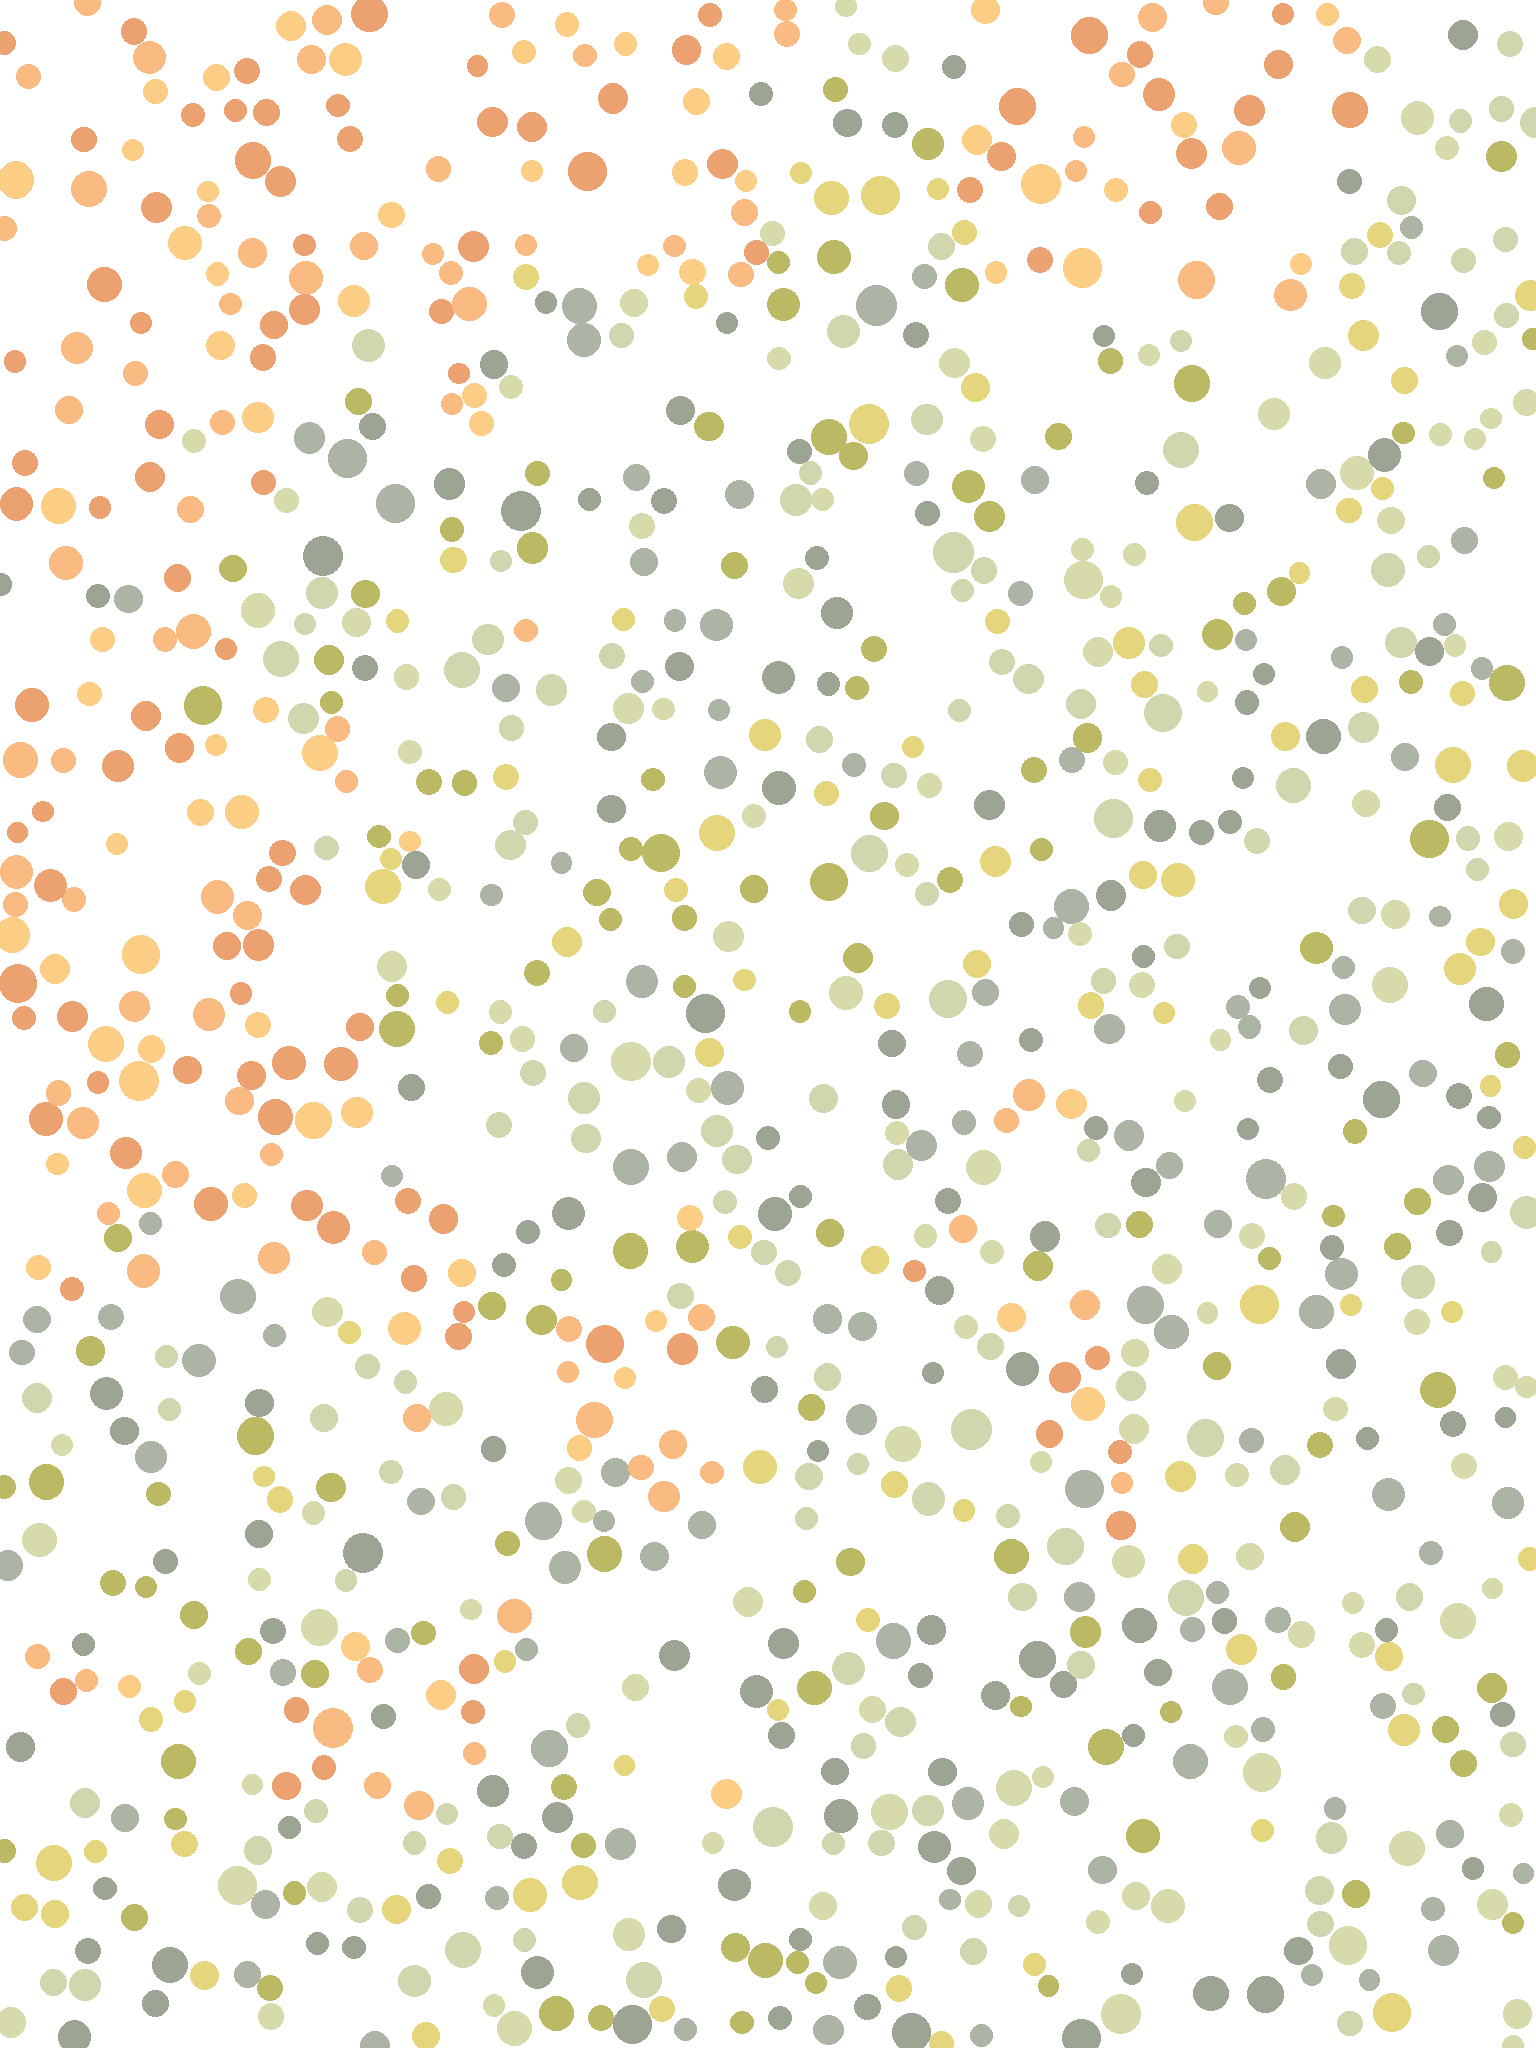
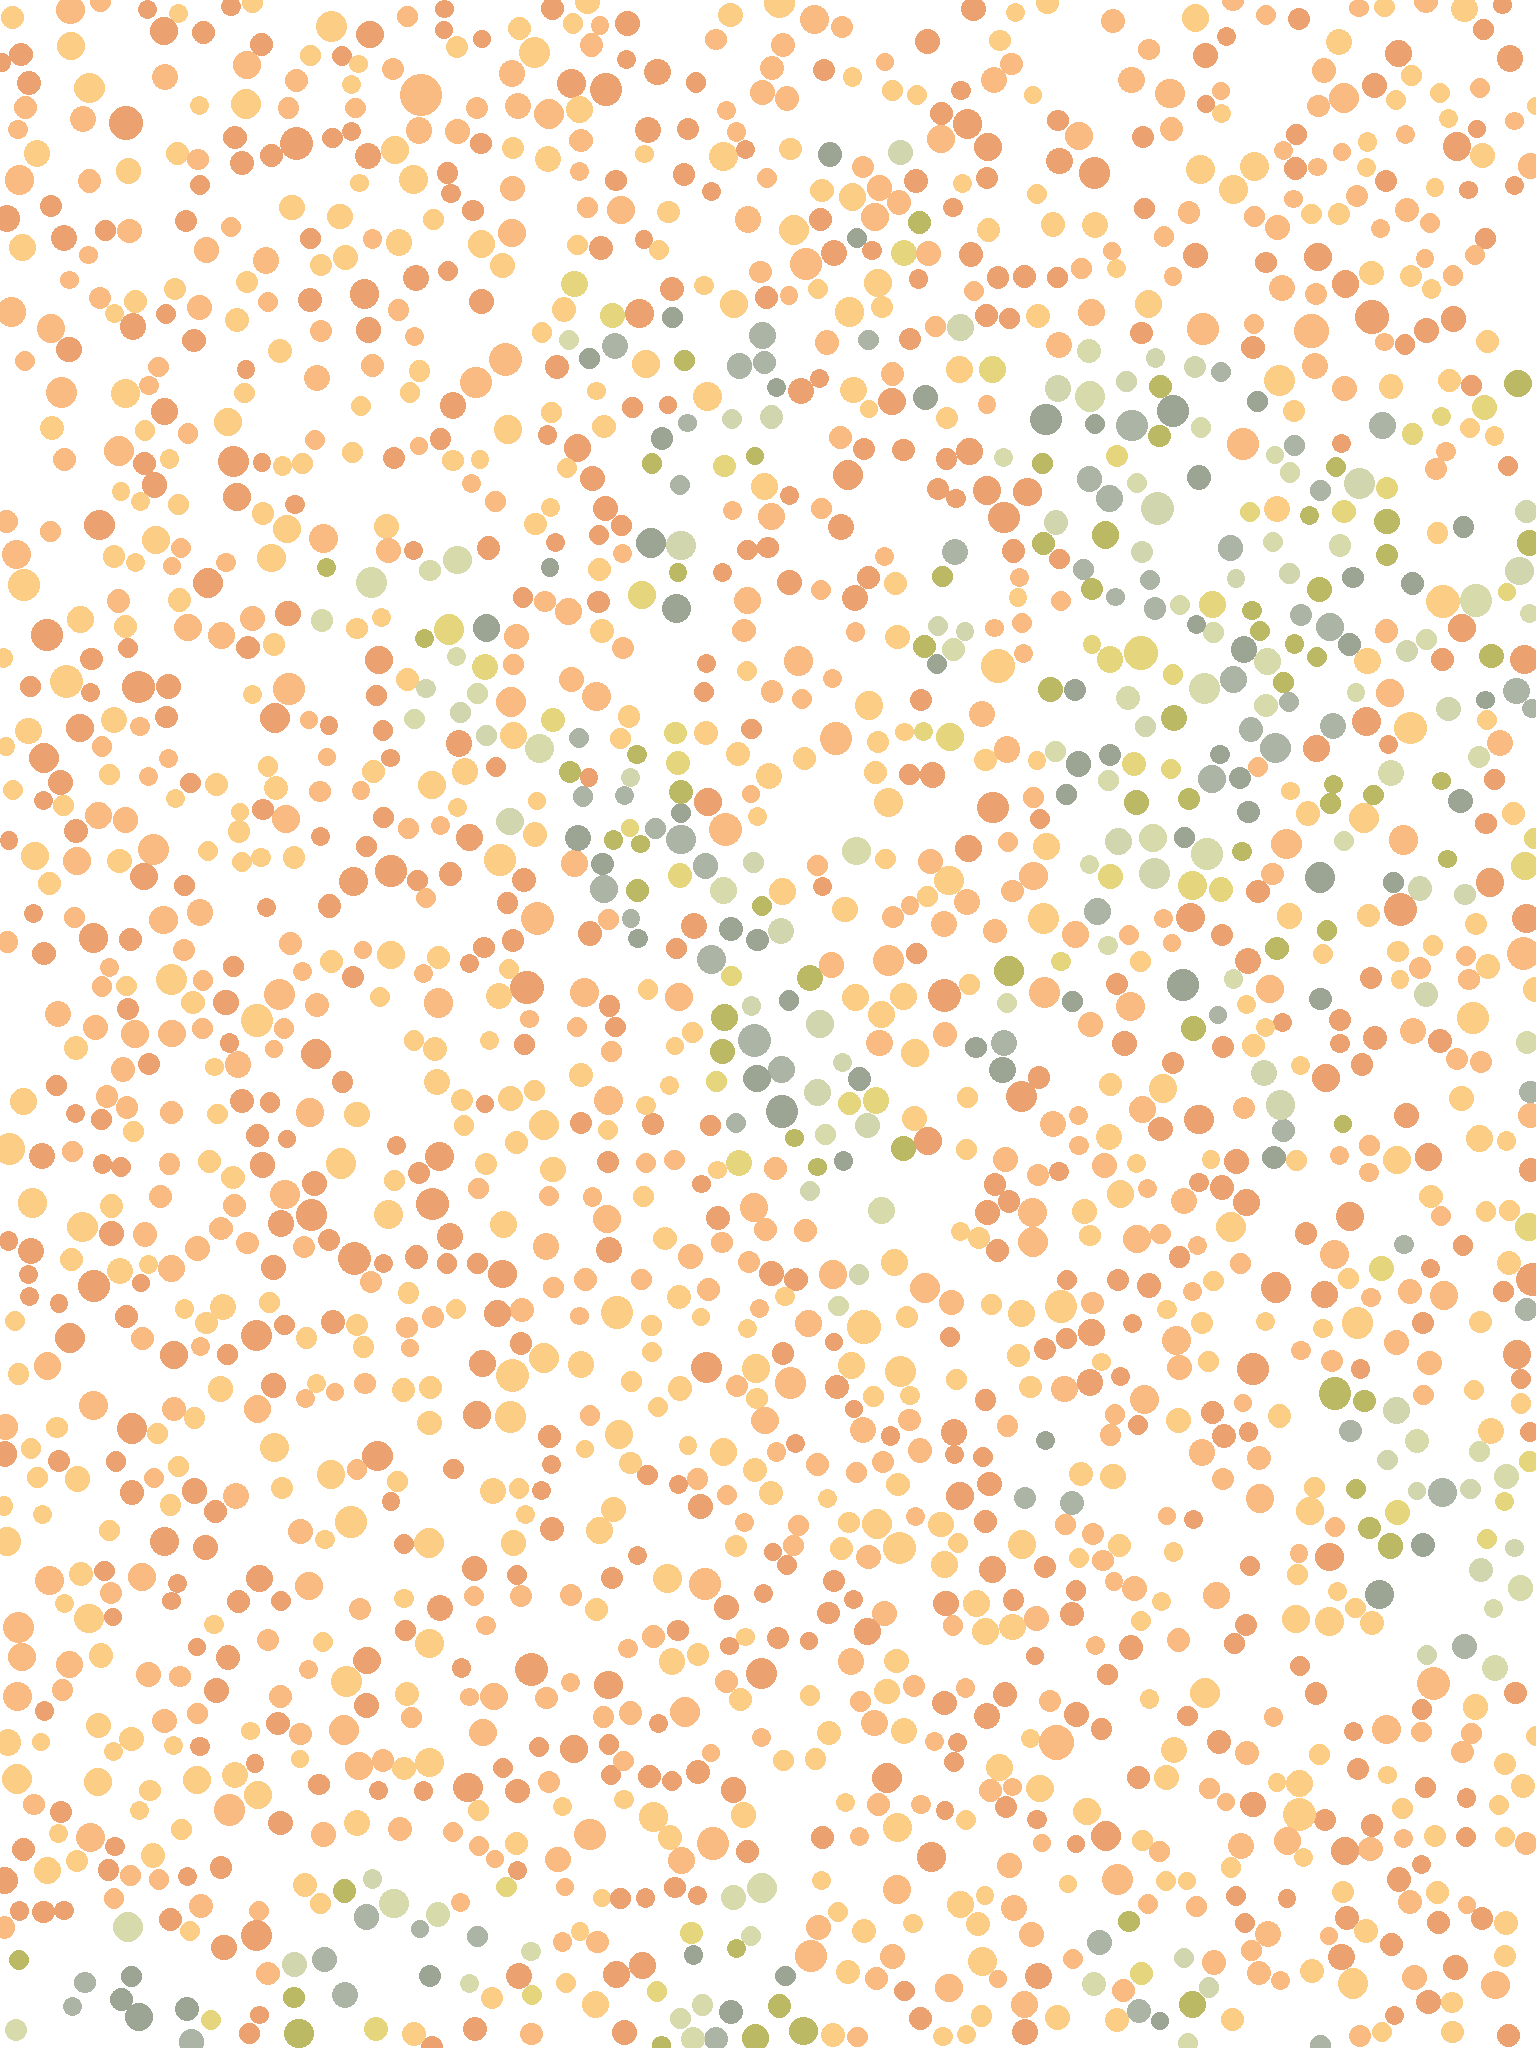
kaupt

diff --git a/Felix_Geburtstag/convert_green_red.py b/Felix_Geburtstag/convert_green_red.py
@@ -1,0 +1,53 @@
+import os
+from PIL import Image, ImageDraw
+import random
+
+color = lambda c: ((c >> 16) & 255, (c >> 8) & 255, c & 255)
+
+COLORS_ON = [
+    color(0xF9BB82), color(0xEBA170), color(0xFCCD84)
+]
+COLORS_OFF = [
+    color(0x9CA594), color(0xACB4A5), color(0xBBB964),
+    color(0xD7DAAA), color(0xE5D57D), color(0xD1D6AF)
+]
+
+BACKGROUND= (255, 255, 255)
+
+def overlaps_motive(image, x, y):
+    if image.getpixel((x,y)) != BACKGROUND:
+        return True
+    else:
+        return False
+
+
+img = Image.open("Felix_Geburtstag\\Fran.png")
+
+
+
+pixels = img.load() # create the pixel map
+
+for i in range(img.size[0]): # for every pixel:
+    for j in range(img.size[1]):
+        if overlaps_motive(img, i, j):
+            fill_colors = COLORS_ON
+        else:
+            fill_colors = COLORS_OFF
+        color = random.choice(fill_colors)
+        pixels[i, j] = color
+img.save("Felix_Geburtstag\\new.png")
+
+
+
+def convert(relpath, savepath, thresh = 85):
+    img = Image.open(os.getcwd() + "\\" + relpath)
+    
+    fn = lambda x : 255 if x > thresh else 0
+    r = img.convert('L').point(fn, mode='1')
+    
+    r.save(os.getcwd() + "\\" + savepath + '\\converted.png')
+    return savepath + "\\" + 'converted.png'
+
+if __name__ == "__main__":
+    convert("Felix_Geburtstag\\Erik_Felixia.jpg", "\\trash", 100)
+    

diff --git a/Felix_Geburtstag/main.py b/Felix_Geburtstag/main.py
@@ -4,9 +4,9 @@ import convert_black_white
 import Ishahara_test_generator
 import make_transparent
 
-NUM = 10000
-LAYERS = 20
-BACKGROUND = (255, 255, 255)
+NUM = 5000
+LAYERS = 5
+BACKGROUND = (0, 0, 0)
 
 cwd = os.getcwd()
 
@@ -17,7 +17,8 @@ thresh = []
 for i in range(LAYERS):
     ishahara += ["trash\\ishahara" + str(i) + ".png"]
     trans += ["trash\\trans" + str(i) + ".png"]
-    thresh += [i*(100/LAYERS)]
+    #thresh += [(i+1)*(100/LAYERS)]
+    thresh += [100]
 
 for i,e in enumerate(ishahara):
     converted = convert_black_white.convert("Felix_Geburtstag\\Erik_Felixia.jpg", "\\trash", thresh[i])

diff --git a/Felix_Geburtstag/Ishahara_test_generator.py b/Felix_Geburtstag/Ishahara_test_generator.py
@@ -1,6 +1,5 @@
 import math
 import random
-import sys
 import os
 
 from PIL import Image, ImageDraw
